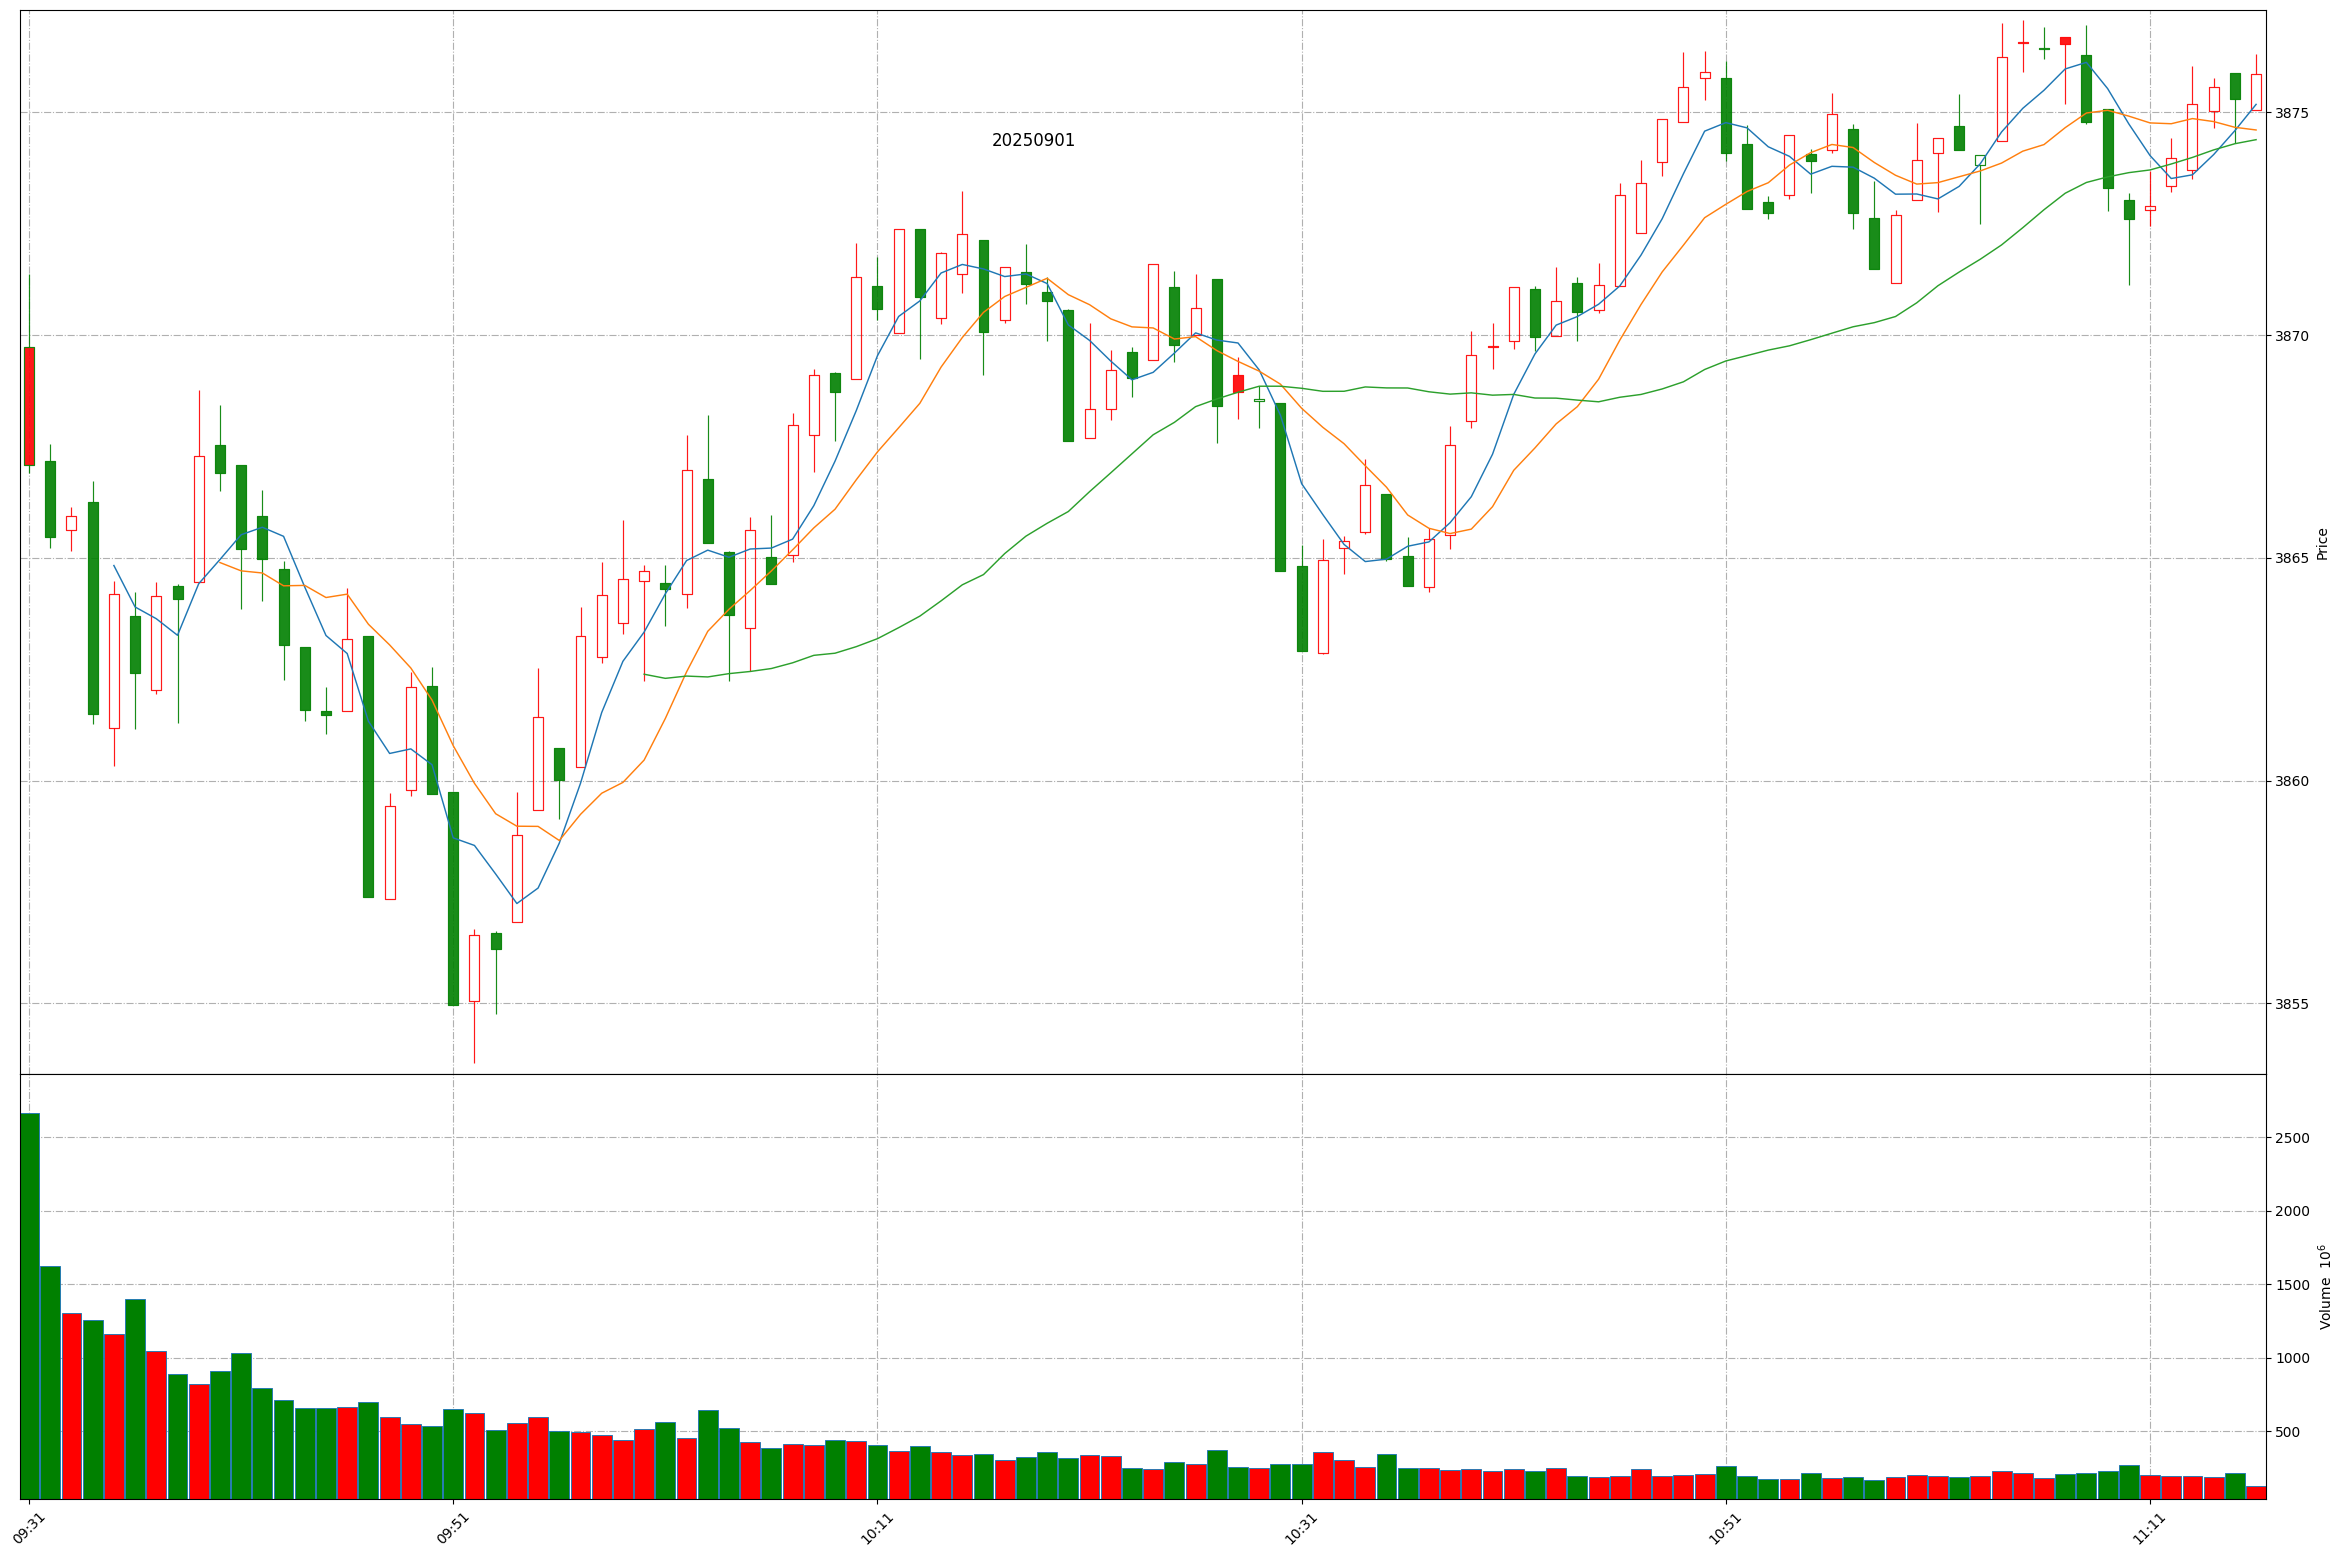
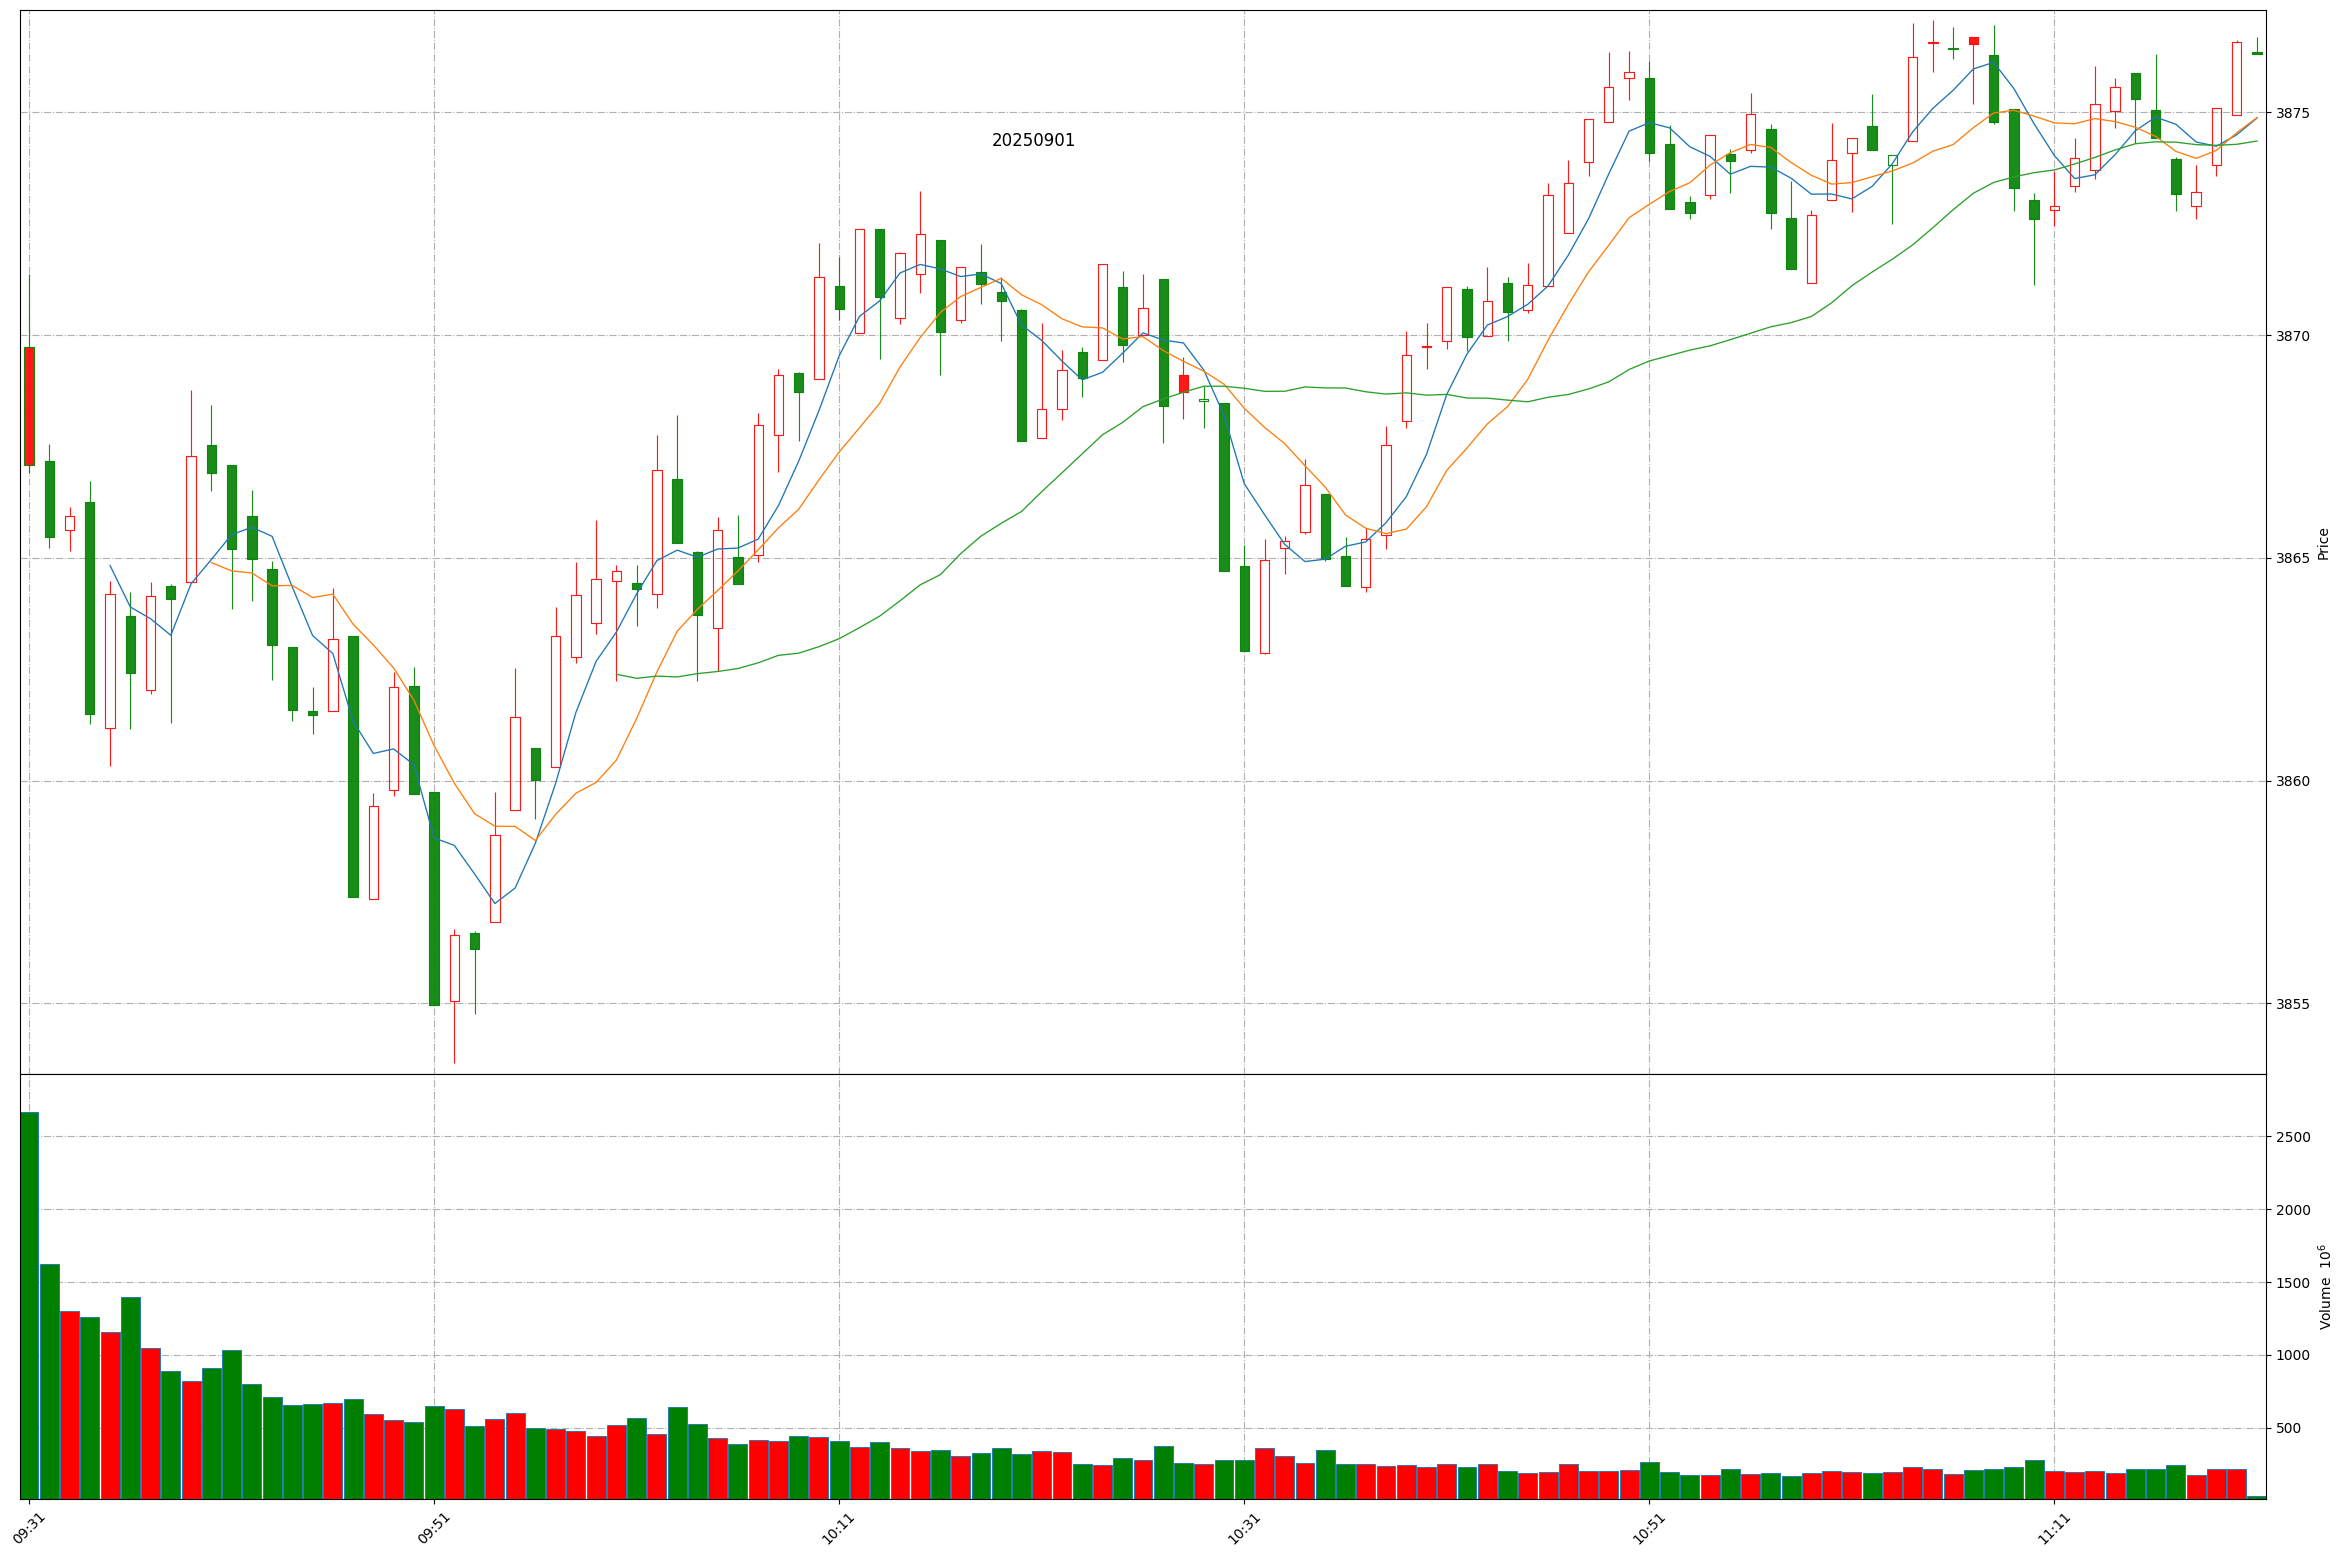
Github action update at 2025-09-01 11:20:29.

diff --git a/README.md b/README.md
@@ -1,11 +1,11 @@
 
 # Daily-A-share-market-quotes 每日 A 股指数（5min 更新）- 20250901
 
-### 上证指数 20250901 11:15
+### 上证指数 20250901 11:20
 ![](./fig/2025/9/20250901-sh000001.png)
 
-### 深证成指 20250901 11:15
+### 深证成指 20250901 11:20
 ![](./fig/2025/9/20250901-sz399001.png)
 
-### 北证50 20250901 11:15
+### 北证50 20250901 11:20
 ![](./fig/2025/9/20250901-bj899050.png)
